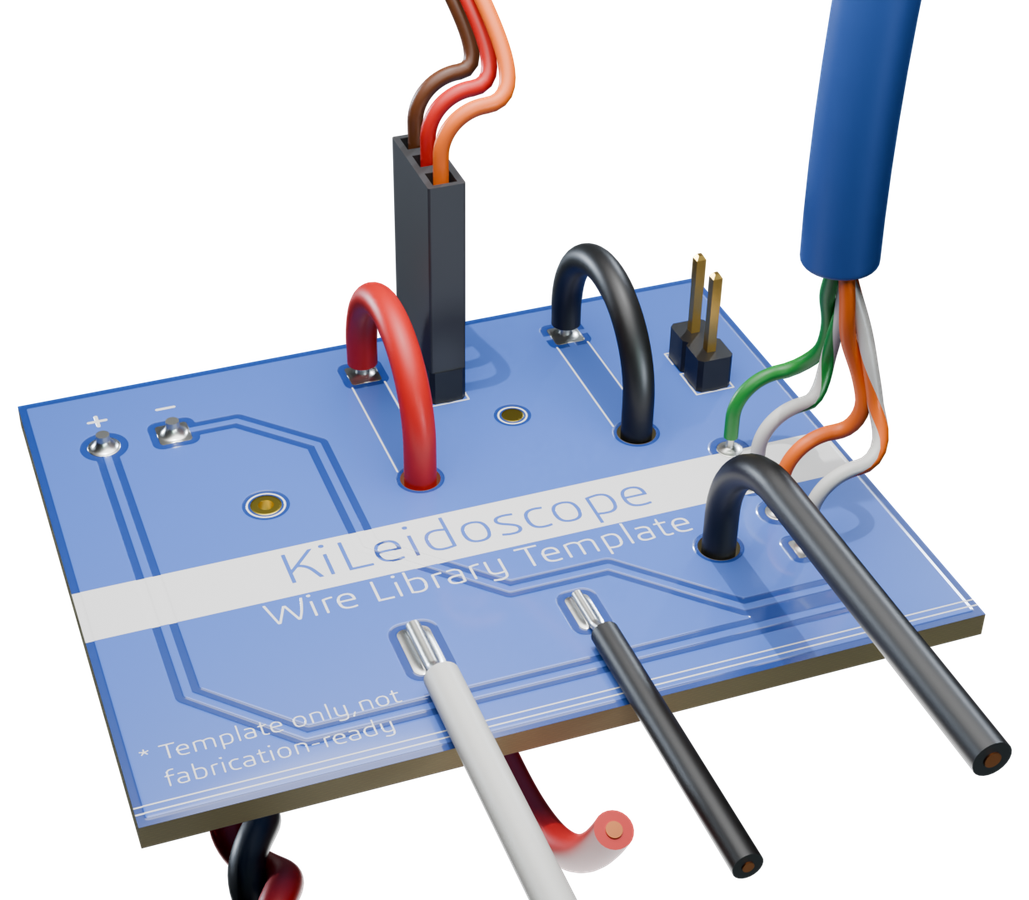
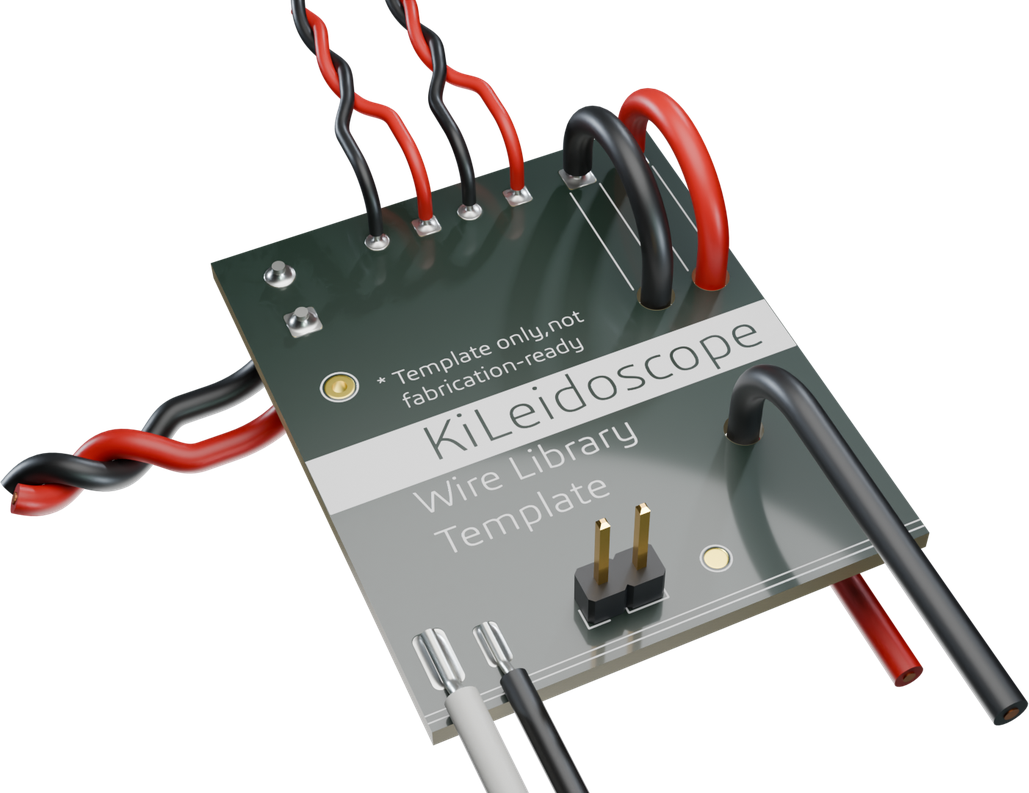
README: the wire cell shows the template render with wires only [skip ci]

diff --git a/README.md b/README.md
@@ -87,7 +87,7 @@ How far a differential pair's P and N are apart in time at every point along the
 Parts made in Blender in place of KiCad's 3D models, matched by footprint name. Give a model the materials you want, save it to My parts, and every board uses it. See the <a href="docs/part-libraries.md">part libraries guide</a>.
 </td>
 <td width="50%" valign="top">
-<p align="center"><img src="assets/WireTemplate_web.png" width="245" alt="A blue test board with wires soldered in: red and black wires bent into arches, three wires in a black housing, a blue cable split into its coloured pairs, stripped wires on flat pads at the front, and a twisted pair under the board."></p>
+<p align="center"><img src="assets/WireTemplate_web.png" width="278" alt="The KiLeidoscope wire library template in Blender: two red and black twisted pairs rising from the board, red and black wires bent into arches through strain-relief holes, a black wire bent down past the board's edge, white and black wires stripped and soldered flat onto pads at the front, a two-pin header and a twisted pair running off to the left."></p>
 <b>Wire library (coming soon!)</b><br>
 Wires soldered into the board's pads, with their gauge, insulation, colour and twist set per wire in Blender or from a field on the footprint in KiCad.
 </td>
